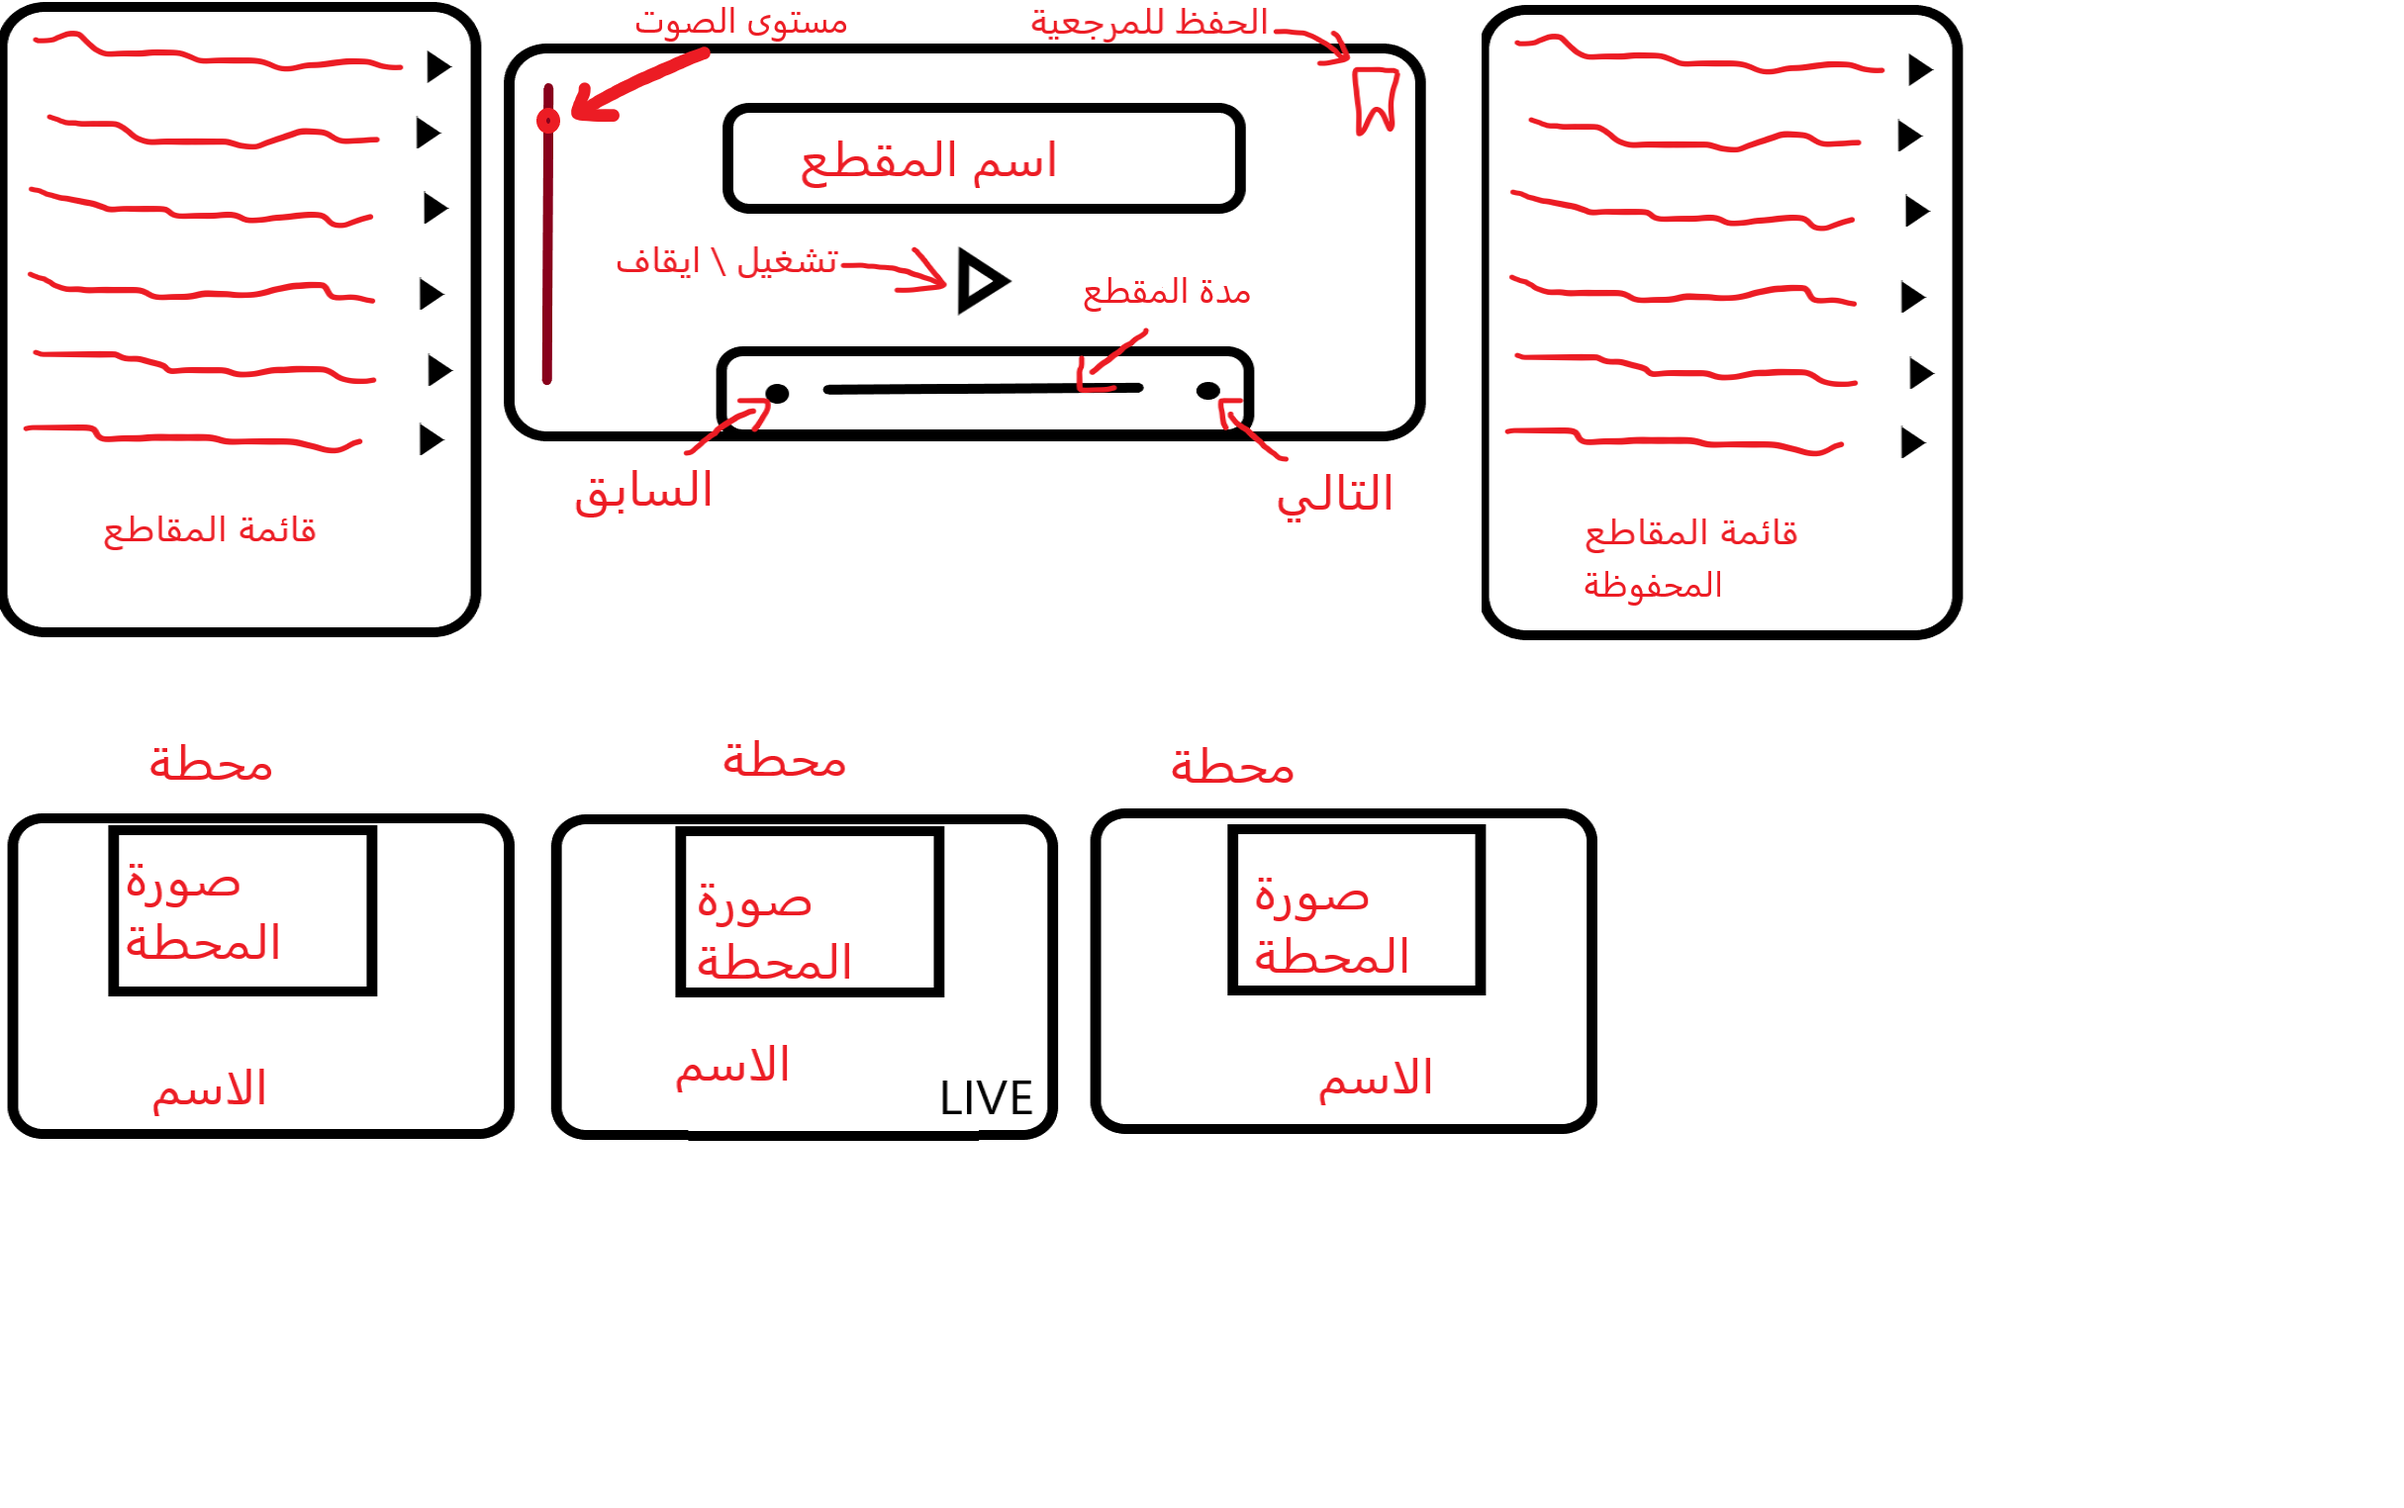
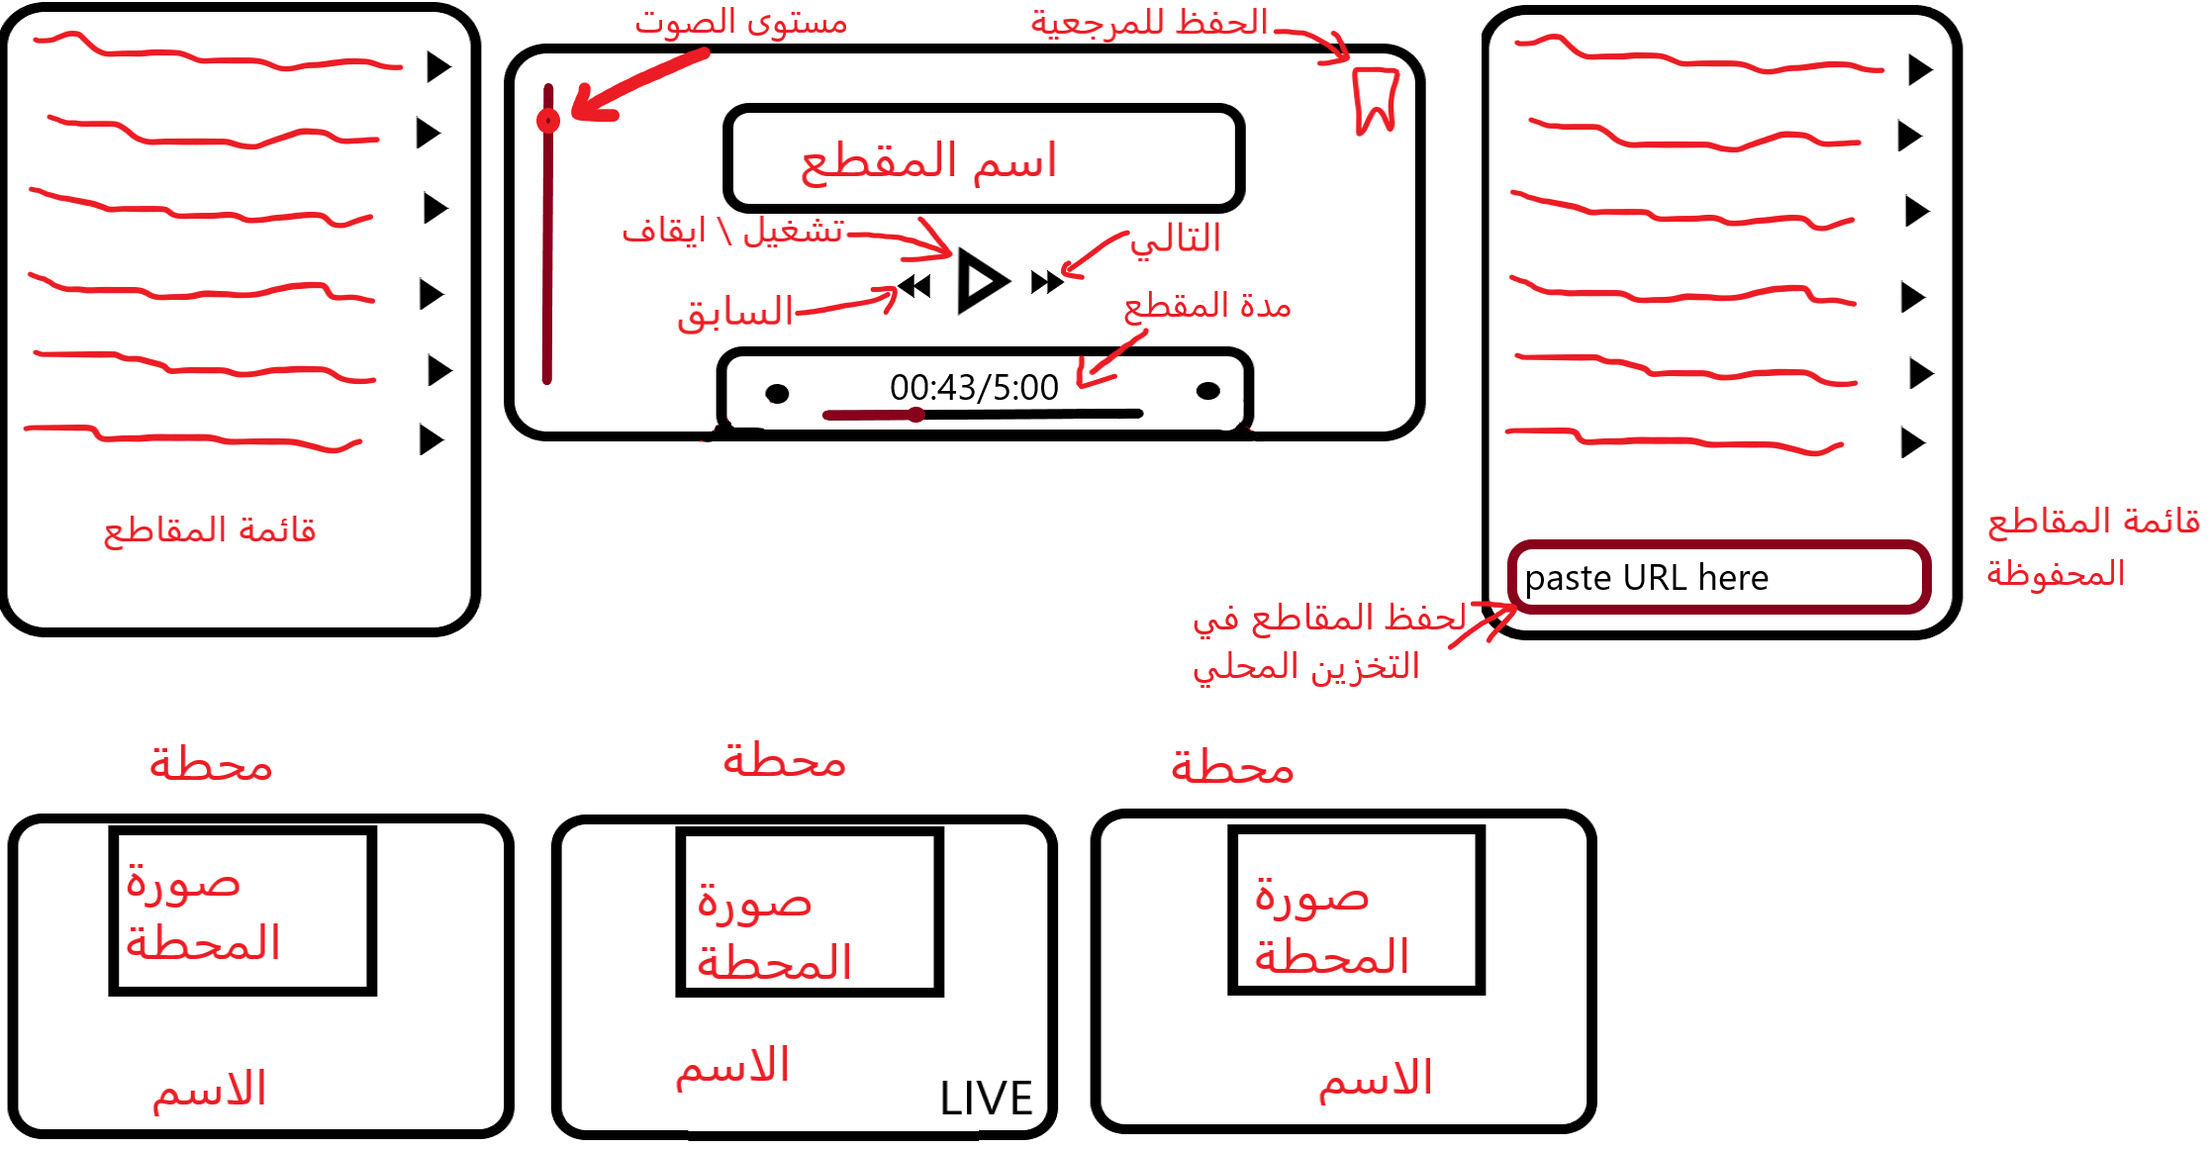
Finished the bookmark button, play/pause button, spinners functionallity, added the playline style

Changed region(s): [[0.0, 0.0, 1.0, 0.9905]]

diff --git a/index.html b/index.html
@@ -9,34 +9,56 @@
     <link rel="preconnect" href="https://fonts.gstatic.com" crossorigin>
     <link href="https://fonts.googleapis.com/css2?family=Cairo:wght@400;500;600&display=swap" rel="stylesheet">
     <link href="https://netdna.bootstrapcdn.com/font-awesome/4.0.3/css/font-awesome.css" rel="stylesheet">
+    <link rel="shortcut icon" href="content/icon.png" type="image/x-icon">
     <link rel="stylesheet" href="src/styles/main.css">
+    <script src="https://kit.fontawesome.com/115a1d12a9.js" crossorigin="anonymous"></script>
     <script defer type="module" src="src/scripts/controller.js"></script>
     <title>Easy Player</title>
 </head>
 
 <body>
-
-
     <!-- Radio -->
     <div class="radio container">
-
+        <div class="radio__bookmark-btn">
+            <i class="fa-regular fa-bookmark"></i>
+            <!-- <i class="fa-solid fa-bookmark"></i> -->
+        </div>
         <div class="radio__inner_1">
-            <div class="radio__inner_1-box">
-                <div class="radio__inner_1-box-spinner">
-                    <i class="fa fa-cog fa-spin left_w"></i>
+            <div class="radio__inner_1-header">
+                <div class="radio__inner_1-header-spinner">
+                    <i class="spinner fa-solid fa-gear"></i>
+                    <!-- <i class="fa-solid fa-gear fa-spin"></i> -->
                 </div>
-                <h1 class="radio__inner_1-box-title">Al-fajr</h1>
-                <div class="radio__inner_1-box-spinner">
-                    <i class="fa fa-cog fa-spin right_w"></i>
+                <h1 class="radio__inner_1-header-title">Al-fajr</h1>
+                <div class="radio__inner_1-header-spinner">
+                    <i class="spinner fa-solid fa-gear"></i>
+                    <!-- <i class="fa-solid fa-gear fa-spin"></i> -->
                 </div>
             </div>
+            <div class="radio__inner_1-buttons">
+                <button>
+                    <i class="fa-solid fa-backward"></i>
+                </button>
+                <button>
+                    <i class="playpause fa-solid fa-play"></i>
+                    <!-- <i class="fa-solid fa-pause"></i> -->
+                </button>
+                <button>
+                    <i class="fa-solid fa-forward"></i>
+                </button>
+            </div>
         </div>
-
-
         <div class="radio__inner_2">
             <div class="left-side">
                 <div class="left-side-1"></div>
                 <div class="left-side-2"></div>
+            </div>
+            <div class="middle">
+                <div class="middle__video-length">
+                    <p>03:51/</p>
+                    <p>00:00</p>
+                </div>
+                <input type="range" value="0" id="progress" min="0" max="100">
             </div>
             <div class="right-side">
                 <div class="right-side-1"></div>
@@ -44,12 +66,6 @@
             </div>
         </div>
     </div>
-
-    <!-- <div class="container stations">
-        <div class="stations__station">
-        </div>
-    </div> -->
-
 </body>
 
 </html>

diff --git a/src/styles/main.css b/src/styles/main.css
@@ -38,6 +38,15 @@ body {
   border-radius: 10px;
   position: relative;
 }
+.radio__bookmark-btn {
+  font-size: 2rem;
+  color: #fff;
+  position: absolute;
+  top: 0;
+  right: 0;
+  margin: 0.8rem;
+  cursor: pointer;
+}
 .radio__inner_1 {
   width: 100%;
   height: 80%;
@@ -45,7 +54,7 @@ body {
   border-radius: inherit;
   padding-top: 1rem;
 }
-.radio__inner_1-box {
+.radio__inner_1-header {
   color: #fff;
   background-color: #cacaca;
   border-radius: 60px;
@@ -53,14 +62,16 @@ body {
   display: flex;
   justify-content: space-between;
 }
-.radio__inner_1-box-spinner {
+.radio__inner_1-header-spinner {
   font-size: 5rem;
+  color: #fff;
   padding: 0 2rem;
+  z-index: 1;
   display: flex;
   align-items: center;
   position: relative;
 }
-.radio__inner_1-box-spinner::before {
+.radio__inner_1-header-spinner::before {
   content: "";
   position: absolute;
   width: 5.6rem;
@@ -70,11 +81,27 @@ body {
   border-radius: 50%;
   top: 50%;
   left: 50%;
+  z-index: -1;
   transform: translate(-50%, -50%);
 }
-.radio__inner_1-box-title {
+.radio__inner_1-header-title {
   color: #333;
   align-self: center;
+}
+.radio__inner_1-buttons {
+  margin-top: 1rem;
+  display: flex;
+  justify-content: center;
+  gap: 1.5rem;
+}
+.radio__inner_1-buttons button {
+  font-size: 2rem;
+  background: none;
+  border: none;
+  cursor: pointer;
+}
+.radio__inner_1-buttons :nth-child(2) {
+  font-size: 3rem;
 }
 .radio__inner_2 {
   color: #fff;
@@ -111,4 +138,30 @@ body {
 }
 .radio__inner_2 .right-side-1 {
   order: 2;
+}
+.radio__inner_2 .middle {
+  display: grid;
+  justify-items: center;
+}
+.radio__inner_2 .middle__video-length {
+  display: flex;
+}
+.radio__inner_2 .middle__video-length p {
+  font-size: 1.4rem;
+}
+.radio__inner_2 .middle #progress {
+  -webkit-appearance: none;
+  width: 100%;
+  height: 5px;
+  background-color: rgb(169, 201, 222);
+  border-radius: 20px;
+}
+.radio__inner_2 .middle #progress::-webkit-slider-thumb, .radio__inner_2 .middle #progress::-moz-range-thumb {
+  -webkit-appearance: none;
+  border: none;
+  outline: none;
+  width: 10px;
+  height: 10px;
+  border-radius: 50%;
+  background-color: rgb(61, 161, 227);
 }

diff --git a/src/styles/components/_radio.scss b/src/styles/components/_radio.scss
@@ -5,6 +5,17 @@
   margin-top: 1rem;
   padding: 3rem;
   border-radius: 10px;
+  position: relative;
+
+  &__bookmark-btn {
+    font-size: 2rem;
+    color: #fff;
+    position: absolute;
+    top: 0;
+    right: 0;
+    margin: 0.8rem;
+    cursor: pointer;
+  }
 
   &__inner_1 {
     width: 100%;
@@ -13,7 +24,7 @@
     border-radius: inherit;
 
     padding-top: 1rem;
-    &-box {
+    &-header {
       color: #fff;
       background-color: #cacaca;
       border-radius: 60px;
@@ -23,7 +34,9 @@
 
       &-spinner {
         font-size: 5rem;
+        color: #fff;
         padding: 0 2rem;
+        z-index: 1;
 
         display: flex;
         align-items: center;
@@ -39,6 +52,7 @@
           border-radius: 50%;
           top: 50%;
           left: 50%;
+          z-index: -1;
           transform: translate(-50%, -50%);
         }
       }
@@ -48,9 +62,25 @@
         align-self: center;
       }
     }
-  }
 
-  position: relative;
+    &-buttons {
+      margin-top: 1rem;
+      display: flex;
+      justify-content: center;
+      gap: 1.5rem;
+
+      button {
+        font-size: 2rem;
+        background: none;
+        border: none;
+        cursor: pointer;
+      }
+
+      :nth-child(2) {
+        font-size: 3rem;
+      }
+    }
+  }
 
   &__inner_2 {
     color: #fff;
@@ -96,6 +126,38 @@
     & .right-side {
       &-1 {
         order: 2;
+      }
+    }
+
+    .middle {
+      display: grid;
+      justify-items: center;
+
+      &__video-length {
+        display: flex;
+
+        p {
+          font-size: 1.4rem;
+        }
+      }
+
+      #progress {
+        -webkit-appearance: none;
+        width: 100%;
+        height: 5px;
+        background-color: rgb(169, 201, 222);
+        border-radius: 20px;
+
+        &::-webkit-slider-thumb,
+        &::-moz-range-thumb {
+          -webkit-appearance: none;
+          border: none;
+          outline: none;
+          width: 10px;
+          height: 10px;
+          border-radius: 50%;
+          background-color: rgb(61, 161, 227);
+        }
       }
     }
   }

diff --git a/src/scripts/Views/View.js b/src/scripts/Views/View.js
@@ -1,0 +1,21 @@
+class View {
+  playpauseBtn = document.querySelector(".playpause");
+  spinners = document.querySelectorAll(".spinner");
+
+  togglePlayBtn() {
+    this.playpauseBtn.classList.toggle("fa-play");
+    this.playpauseBtn.classList.toggle("fa-pause");
+
+    this.spinners.forEach((spinner) => {
+      spinner.classList.toggle("fa-spin");
+    });
+  }
+
+  playBtnHandler(handler) {
+    this.playpauseBtn.addEventListener("click", () => {
+      this.togglePlayBtn();
+      //   handler();
+    });
+  }
+}
+export default new View();

diff --git a/src/scripts/controller.js b/src/scripts/controller.js
@@ -1,4 +1,11 @@
 import * as model from "./model.js";
+import View from "./Views/View.js";
 
-const init = function () {};
-// init();
+const controlTogglePlaying = function () {
+  //   console.log("tm");
+};
+
+const init = function () {
+  View.playBtnHandler(controlTogglePlaying);
+};
+init();
